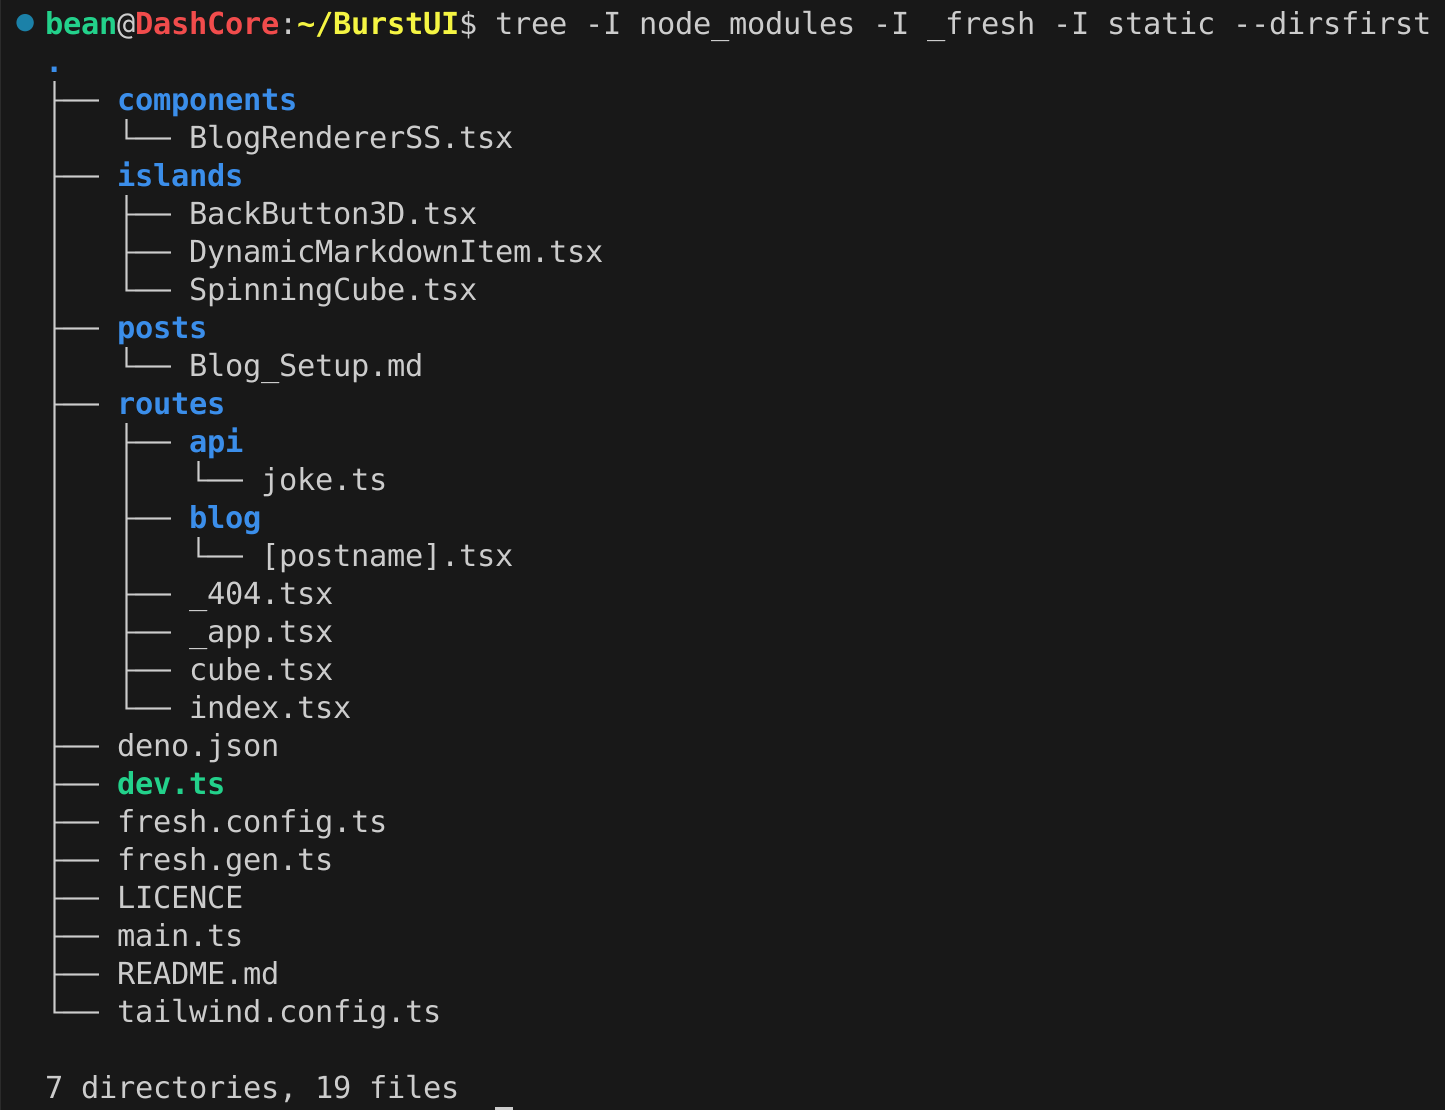
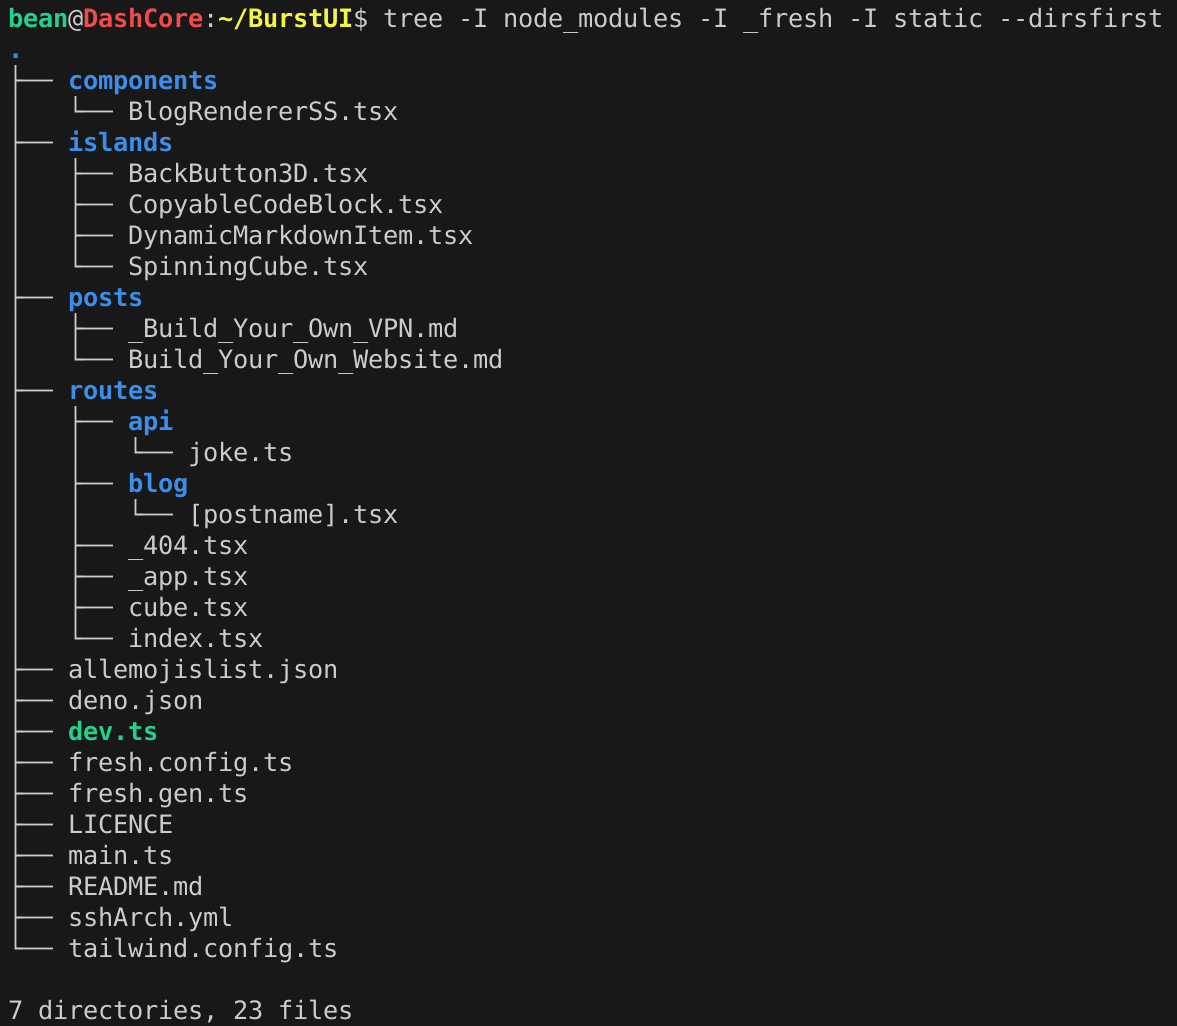
404

diff --git a/routes/blog/[postname].tsx b/routes/blog/[postname].tsx
@@ -1,40 +1,67 @@
 import DynamicMarkdownItem from "../../islands/DynamicMarkdownItem.tsx";
 import BlogPostRenderer from "../../components/BlogRendererSS.tsx";
 import BackButton3D from "../../islands/BackButton3D.tsx";
-
 import { readFileSync, statSync } from "node:fs";
 import { join } from "node:path";
-import { PageProps } from "$fresh/server.ts";
-import Error404 from "../_404.tsx";
+import { Handlers, PageProps } from "$fresh/server.ts";
 
-export default function Blog(props: PageProps) {
-  const filePath = join(Deno.cwd(), "posts", `${props.params.postname}.md`);
-  let content;
+interface BlogProps {
+  content: string;
+  createdTime: string;
+  modifiedTime: string;
+  title: string;
+}
+
+export const handler: Handlers = {
+  GET(_req, ctx) {
+    const blogpost: BlogProps | null = fetchBlogpost(ctx.params.postname);
+    if (!blogpost) {
+      return ctx.renderNotFound({
+        custom: "prop",
+      });
+    }
+    return ctx.render({blogpost });
+  },
+};
+
+const fetchBlogpost = (slug: string): BlogProps | null => {
+  const filePath = join(Deno.cwd(), "posts", `${slug}.md`);
+  let content: string;
   let createdTime;
   let modifiedTime;
 
   try {
-    content = readFileSync(filePath, "utf-8");
-
     const fileStats = statSync(filePath);
+
+    content = readFileSync(filePath, "utf-8");
     createdTime = new Date(fileStats.birthtime).toLocaleString();
     modifiedTime = new Date(fileStats.mtime).toLocaleString();
-  } catch (_error) {
-    return Error404(props);
+  } catch {
+    return null;
   }
 
   // Use the parameter as the title
-  const title = props.params.postname.replace(/_/g, " ").toUpperCase();
+  const title = slug.replace(/_/g, " ").toUpperCase();
+  return {
+    content: content,
+    createdTime: createdTime,
+    modifiedTime: modifiedTime,
+    title: title
+  }
+}
 
+export default function Blog(props: PageProps) {
+
+  const postProps = props.data.blogpost
   // Parse Markdown server-side
-  const renderedMarkdown = BlogPostRenderer({ content });
+  const renderedMarkdown = BlogPostRenderer(postProps.content);
 
   return (
     <>
       <header class="mb-4">
-        <h1 class="text-5xl font-bold mb-2">{title}</h1>
+        <h1 class="text-5xl font-bold mb-2">{postProps.title}</h1>
         <p class="text-sm text-subtitles">
-          Created: {createdTime} | Last Edited: {modifiedTime}
+          Created: {postProps.createdTime} | Last Edited: {postProps.modifiedTime}
         </p>
       </header>
       {renderedMarkdown}

diff --git a/components/BlogRendererSS.tsx b/components/BlogRendererSS.tsx
@@ -39,6 +39,11 @@ customRenderer.heading = ({ text, depth }: Tokens.Heading): string => {
         <${tag}>${text}</${tag}>
         <hr style="width: 75%; margin: 0rem 0 0.5rem; text-align: left;" />
     `;
+    case 4:
+      return `
+        <div style="height: 1rem; display: block;"></div>
+        <${tag}>${text}</${tag}>
+    `;
     default:
       return `
       <div style="height: 1rem; display: block;"></div>
@@ -101,7 +106,7 @@ const options: MarkedEmojiOptions = {
 marked.use(markedSmartypantsLite(), markedEmoji(options));
 
 
-export default function BlogPostRenderer({ content }: { content: string }) {
+export default function BlogPostRenderer(content: string) {
   const renderedContent = marked.parse(
     content.replace(/{{(\w+)}}/g, (_match, componentName) => {
       return `<div id="component-${componentName}" data-component="${componentName}"></div>`;

diff --git a/routes/index.tsx b/routes/index.tsx
@@ -23,7 +23,7 @@ export default async function Home() {
       <h1 class="text-8xl text-black font-bold mb-2">Burst.</h1>
       <div style="height: 0.75rem; display: block;"></div>
       <p class="text-accLiteGreen">
-        This space is dedicated to brevity and clarity: turning my nonsensical
+        This space is dedicated to brevity and clarity: turning my nonsensical &
         spontaneous adventures into something you can grasp, benefit from, and
         share. If I ever do something cool, I truly want you to be able to do it
         too!

diff --git a/posts/Build_Your_Own_Website.md b/posts/Build_Your_Own_Website.md
@@ -8,11 +8,11 @@
 
 1. **CSS**: This is a set of properties you can use to modify the display of HTML elements. To match my HTML examples above, you could set *text* font, *images* opacity, *links* color, and *boxes* size. The same HTML can look significantly different depending on the `.css` style file sent with it. If you didn’t adequately receive the `.css` file when visiting a site, all the text could be black on the left, and the background would be white, depending on the browser’s CSS defaults. You may have briefly witnessed this as a slow site loads or if your connection was interrupted before getting the CSS.
 
-The *boiling down* gets complicated as the three ingredients start to mix. Let’s start with a minimal example. I’ll assume you're using a browser so by typing [`example.com`](https://example.com/) into the address bar:
+The *boiling down* gets complicated as the three ingredients start to mix. Browsers are large softwares; web technologies, and as you’ll see, are up to so much of this *boiling* automatically under the hood. Let’s start with a minimal example. I’ll assume you're using a browser so lets type [`example.com`](https://example.com/) into the address bar:
 
-![Press F12 to open Browser Tools](/1/example.png)
+![Press F12 to open Browser Tools -> `Network` tab](/1/example.png)
 
-Browsers are large softwares; web technologies, and as you’ll see, are up to so much automatically under the hood. After I hit `↵ Enter`, my browser requests the `/` HTML file to display in its main window and `favicon.ico` to fill in the icon in the tab title bar. `example.com` is a minimal example, so it doesn’t have a favicon; without it, the page will still load fine. In the image above, my browser’s favicon request [404s](https://developer.mozilla.org/en-US/docs/Web/HTTP/Status/404) (~~file~~ not found), but the `/` response is a document of type HTML.
+After I hit `↵ Enter`, my browser requests the `/` HTML file to display in its main window and `favicon.ico` to fill in the icon in the tab title bar. In the image above, my browser’s favicon request [404s](https://developer.mozilla.org/en-US/docs/Web/HTTP/Status/404) (~~file~~ not found), but the `/` response is a document of type HTML. `example.com` is a minimal example, so it doesn’t have a favicon; without it, the main page will still load fine and we will see why next section...
 
 ### A New Dish
 &nbsp;&nbsp;&nbsp;&nbsp;&nbsp;&nbsp;&nbsp;&nbsp;Next, let’s explore how intense relationships :twisted_rightwards_arrows: between website technologies and the three main ingredients can get. Our minimal `example.com`, has sent 1 HTML file:
@@ -48,7 +48,7 @@ You can see this by visiting the insecure [`example.com:80/`](http://example.com
 
 ## Website: **Publishing**
 ### Enter the Twisted World
-Server software and the hosts they run on are very diverse. Using JavaScript based server software provides a smooth experience because you can easily craft HTML, CSS, and JS in JavaScript as the language was built to do. However, there are [some definitive drawbacks](https://www.typescriptlang.org/why-create-typescript/) to writing code in JavaScript as it was originally intended to only ever run in the browser. I prefer using TypeScript which extends JavaScript to make it more like a traditional programming language and addresses these drawbacks. [Deno](https://deno.com/) is a growing and promising JavaScript, TypeScript, and WebAssembly runtime, meaning we can use it to run code we write in `.ts` files and have it *boil down* into JS code for clients. [Fresh](https://fresh.deno.dev/) is a set of server software and tools written in TypeScript that we will run using Deno. `burst.deno.dev` is the name of a computer on the internet that is using Deno to run TypeScript code that listens for website requests and dishes back responses. The code for this website is publicly available on my GitHub. Whenever it is updated, GitHub runs a script that packs up all my files and sends them to [Deno Deploy](https://deno.com/deploy). Deno Deploy starts running the code on a computer named `burst.deno.dev`, and you can connect to it the same way you can connect to [`deno.dev`](https://deno.dev).
+&nbsp;&nbsp;&nbsp;&nbsp;&nbsp;&nbsp;&nbsp;&nbsp;Server software and the hosts they run on are very diverse. Using JavaScript based server software provides a smooth experience because you can easily craft HTML, CSS, and JS in JavaScript as the language was built to do. However, there are [some definitive drawbacks](https://www.typescriptlang.org/why-create-typescript/) to writing code in JavaScript as it was originally intended to only ever run in the browser. I prefer using TypeScript which extends JavaScript to make it more like a traditional programming language and addresses these drawbacks. [Deno](https://deno.com/) is a growing and promising JavaScript, TypeScript, and WebAssembly runtime, meaning we can use it to run code we write in `.ts` files and have it *boil down* into JS code for clients. [Fresh](https://fresh.deno.dev/) is a set of server software and tools written in TypeScript that we will run using Deno. `burst.deno.dev` is the name of a computer on the internet that is using Deno to run TypeScript code that listens for website requests and dishes back responses. The code for this website is publicly available on my GitHub. Whenever it is updated, GitHub runs a script that packs up all my files and sends them to [Deno Deploy](https://deno.com/deploy). Deno Deploy starts running the code on a computer named `burst.deno.dev`, and you can connect to it the same way you can connect to [`deno.dev`](https://deno.dev).
 <br/><br/>
 The documentation for Fresh is easy to navigate and short. I recommend [checking it out](https://fresh.deno.dev/docs/getting-started/create-a-project) as they explain each step in detail and offer alternative configurations. Here are the minimal steps to get a website up that others can visit, just like this one! (without the blog or cube:sob:)
 
@@ -77,19 +77,18 @@ Step 4 is also technically optional since there are many [free hosting options](
 
 ## Website: **Building**
 ### Islands
-&nbsp;&nbsp;&nbsp;&nbsp;&nbsp;&nbsp;&nbsp;&nbsp;Fresh focuses on [a feature called Islands](https://deno.com/blog/intro-to-islands), which makes it easy to specify what code should be run on the server versus the Client. I want to write blog posts like the one you are reading now in [Markdown](https://commonmark.org/help/).<br/><br/>
-Markdown is a simple language that simplifies text formatting, like wrapping words with \*\* for **bold**. This simplicity makes it the preferred language for text posts across the internet; [GitHub READMES](https://github.com/markedjs/marked), ChatGPT Conversations, and [Discord Messages](https://support.discord.com/hc/en-us/articles/210298617-Markdown-Text-101-Chat-Formatting-Bold-Italic-Underline) all use Markdown. However, I also want to send you non-text content that Markdown cannot describe, like the cube below. For this to work smoothly, I’ll have to convert the Markdown into HTML partially over here and have you fill out the rest over there on an :beach_umbrella: **Island**:
+&nbsp;&nbsp;&nbsp;&nbsp;&nbsp;&nbsp;&nbsp;&nbsp;Fresh focuses on [a feature called Islands](https://deno.com/blog/intro-to-islands), which makes it easy to specify what code should be run on the server versus the client. I want to write blog posts like the one you are reading now in [Markdown](https://commonmark.org/help/). Markdown is a simple language that simplifies text formatting, like wrapping words with \* for *italics*. This simplicity makes it the preferred language for text posts across the internet; [GitHub READMES](https://github.com/markedjs/marked), ChatGPT Conversations, and [Discord Messages](https://support.discord.com/hc/en-us/articles/210298617-Markdown-Text-101-Chat-Formatting-Bold-Italic-Underline) all use Markdown. However, I also want to send you non-text content that Markdown cannot describe, like the cube below. For this to work smoothly, I’ll have to convert the Markdown into HTML partially over here and have you fill out the rest over there on an :beach_umbrella: **Island**:
 
 {{SpinningCube}}
 
-Over here on the server, I’ll focus on getting the static content [ :page_facing_up: ] ready and delivered while your browser does the dynamic content [ :red_square: ]. Limiting the server to simple text-processing tasks dramatically affects how fast each page loads since I only have to compute the text to send you before responding, including the code [ :page_facing_up: ] for the cube [ :red_square: ]. I won’t have to run any code to generate the cube before responding to your browser while navigating here. Your browser will immediately display the static text, and after that, start running the code to display the above SpinningCube as soon as it can.
+Over here on the server, I’ll focus on getting the static content:page_facing_up: (HTML + JS text) ready and delivered while your browser handles the dynamic content:red_square: (running JS). Limiting the server to simple text-processing tasks dramatically affects how fast each page loads since I only have to compute the text to send you before responding, including the code [ :page_facing_up: ] for the cube [ :red_square: ]. I won’t have to run any code to generate the cube before responding to your browser while navigating here. Your browser will immediately display the static text, and after that, start running the code to display the above SpinningCube as soon as it can.
 
 ### Dynamic Routing
-&nbsp;&nbsp;&nbsp;&nbsp;&nbsp;&nbsp;&nbsp;&nbsp;Next, I want to set up a blog system where I can easily make new posts. For now, I have just made a single file in `posts` called `Blog_Setup.md`:
+&nbsp;&nbsp;&nbsp;&nbsp;&nbsp;&nbsp;&nbsp;&nbsp;Next, I want to set up a blog system where I can easily make new posts. For now, I have just made a single file in `posts` called `Build_Your_Own_Website.md`:
 
 ![Fresh Project: Directory Tree](/1/blogtree.png)
 
-Using [dynamic routing](https://fresh.deno.dev/docs/getting-started/dynamic-routes), `/blog/[postname].tsx` will serve `[postname].md` as HTML when you visit the corresponding `/blog/[postname]`, and if I add another Markdown file in the `posts` folder for a new link to show up on the [homepage](/) & a new route will be generated. Going to [a post I haven’t made yet](/blog/fakepost) would fail since its corresponding `.md` file wouldn’t be found by my server resulting in a 404.
+Using [dynamic routing](https://fresh.deno.dev/docs/getting-started/dynamic-routes), `/blog/[postname].tsx` will serve `[postname].md` as HTML when you visit the corresponding `/blog/[postname]`, and if I add another Markdown file in the `posts` folder for a new link to show up on the [homepage](/) & a new route eg. `/blog/post2` will be generated. Going to [a post I haven’t made yet](/blog/fakepost) would fail since its corresponding `.md` file wouldn’t be found by my server resulting in a 404.
 
 ### Combination - Islands in Blog Posts 
 ![Code Responsible For Building Blog Post Pages: <code>/blog/[postname].tsx</code>](/1/[postname].png)
